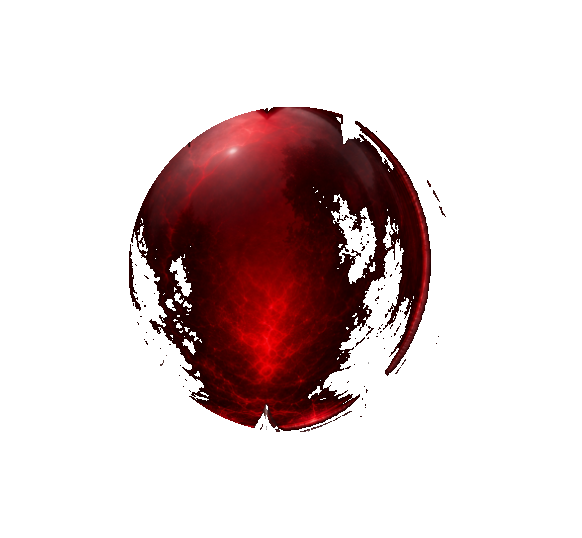
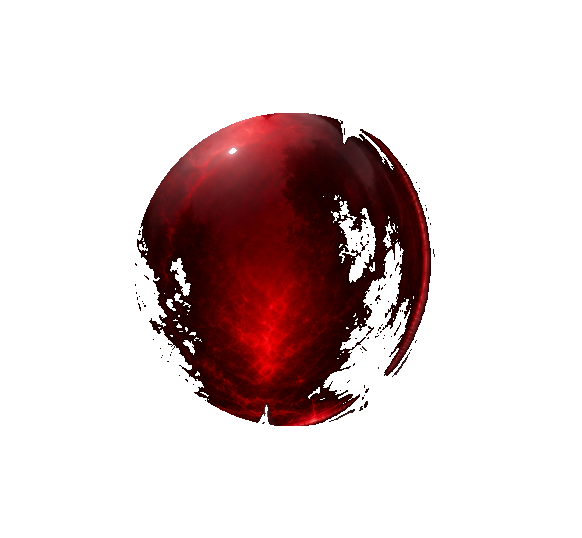
Clean exact HP frame transparency

diff --git a/Margonem-Crimson.user.js b/Margonem-Crimson.user.js
@@ -1,7 +1,7 @@
 // ==UserScript==
 // @name         Margonem Crimson
 // @namespace    https://github.com/bSlawek-03/Margonem-Crimson
-// @version      6.2.1
+// @version      6.2.2
 // @description  Modularny czarno-czerwony motyw interfejsu Margonem.
 // @author       Sławek
 // @match        https://*.margonem.pl/*
@@ -12,8 +12,8 @@
 // @resource     crimsonTop https://raw.githubusercontent.com/bSlawek-03/Margonem-Crimson/main/assets/crimson-top-frame.png
 // @resource     crimsonBottom https://raw.githubusercontent.com/bSlawek-03/Margonem-Crimson/main/assets/crimson-bottom-frame.png
 // @resource     crimsonPanel https://raw.githubusercontent.com/bSlawek-03/Margonem-Crimson/main/assets/crimson-panel-frame.png
-// @resource     hpFrame https://raw.githubusercontent.com/bSlawek-03/Margonem-Crimson/main/assets/hp-frame-exact.png
-// @resource     hpCore https://raw.githubusercontent.com/bSlawek-03/Margonem-Crimson/main/assets/hp-core-exact.png
+// @resource     hpFrame https://raw.githubusercontent.com/bSlawek-03/Margonem-Crimson/main/assets/hp-frame-exact.png?v=2
+// @resource     hpCore https://raw.githubusercontent.com/bSlawek-03/Margonem-Crimson/main/assets/hp-core-exact.png?v=2
 // @resource     crimsonButton https://raw.githubusercontent.com/bSlawek-03/Margonem-Crimson/main/assets/crimson-button-frame.png
 // @updateURL    https://raw.githubusercontent.com/bSlawek-03/Margonem-Crimson/main/Margonem-Crimson.user.js
 // @downloadURL  https://raw.githubusercontent.com/bSlawek-03/Margonem-Crimson/main/Margonem-Crimson.user.js
